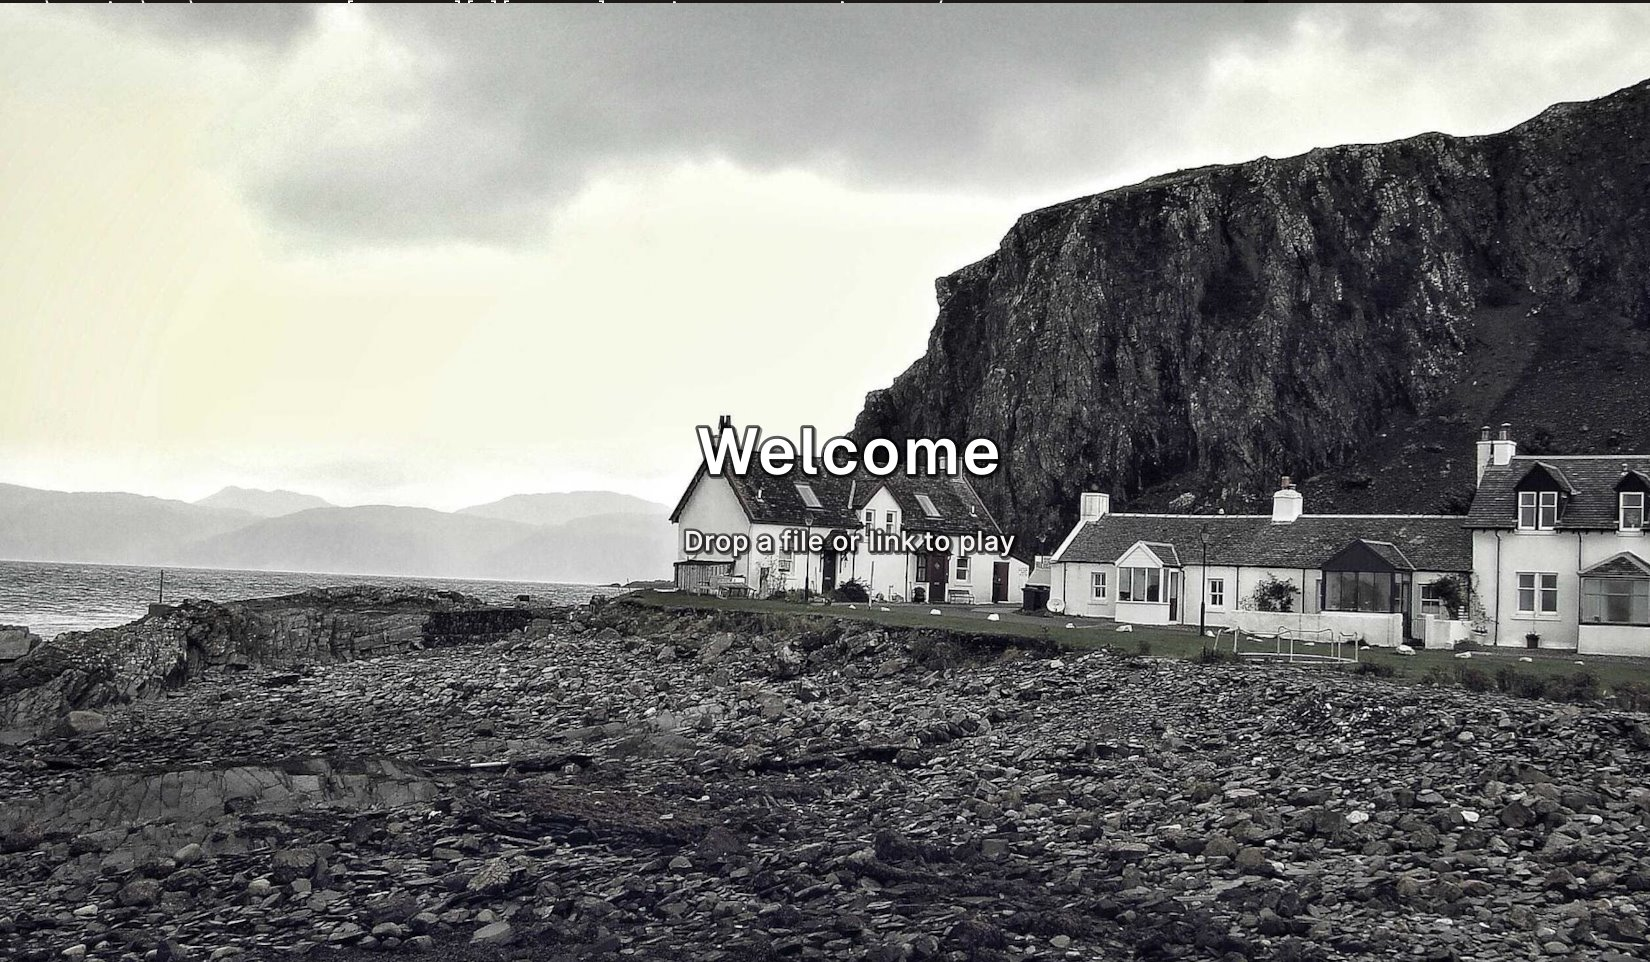
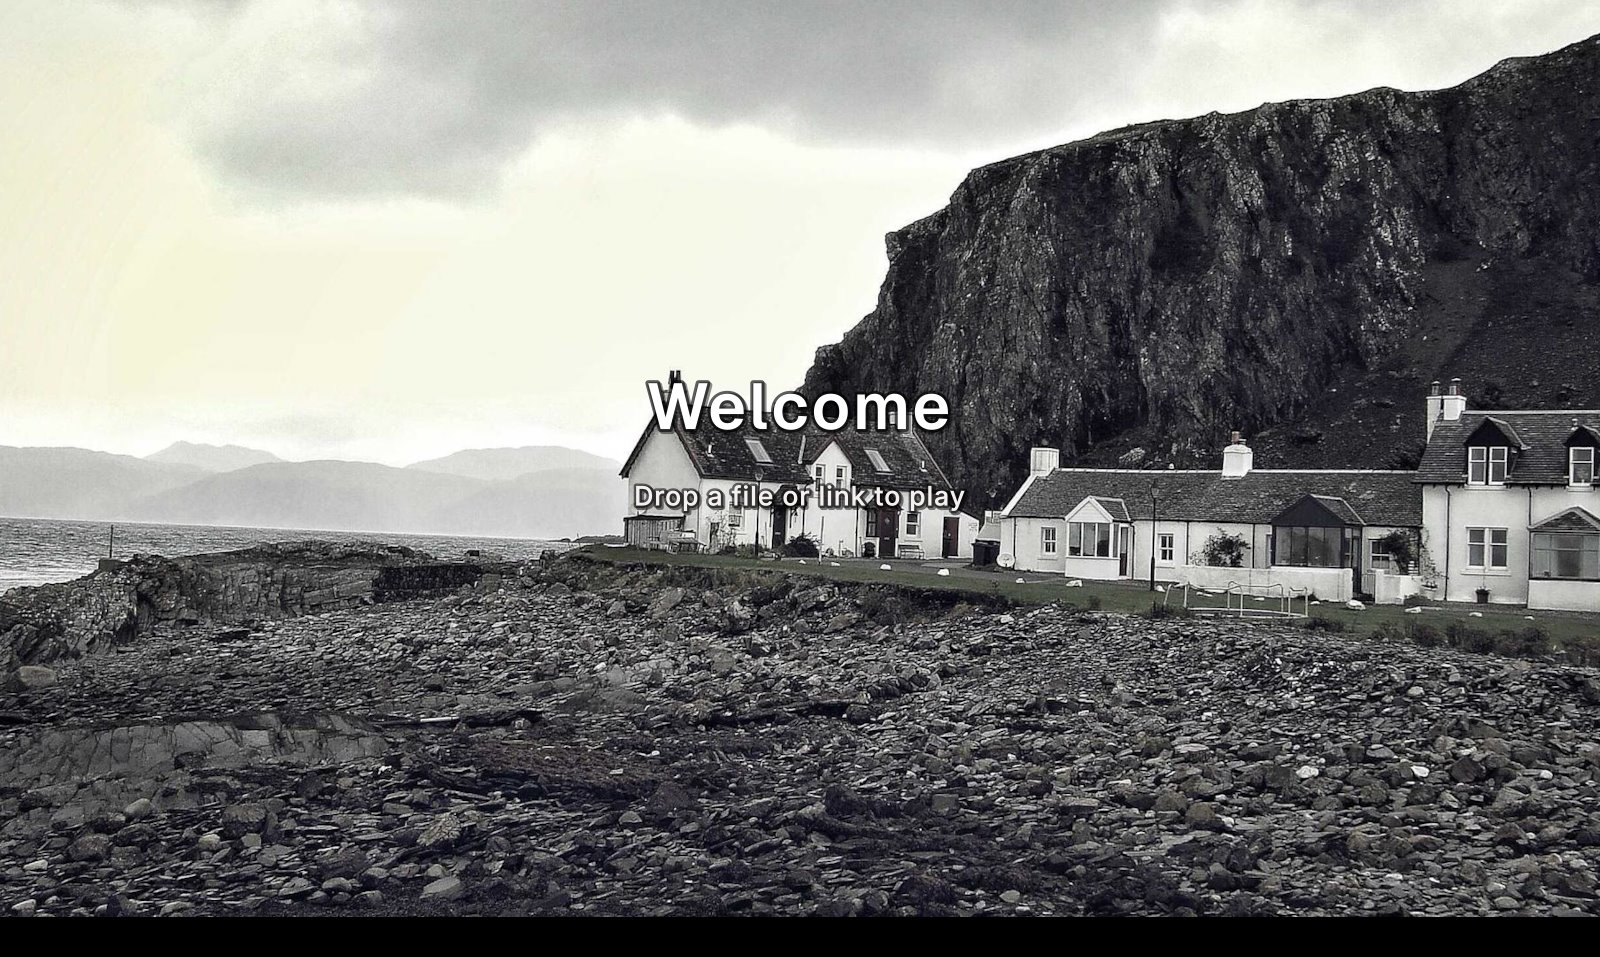
The last three things the review found
The running head lit a link at the top of the page that the reader was not on: the scroll spy now tracks the set of sections rather than the last one to fire, so it falls back to nothing above the first section. The measured claim in the margin band was breaking over two lines at its old size. And the hero plate still carried a sliver of the player's status bar at the top.

diff --git a/site/assets/js/main.js b/site/assets/js/main.js
@@ -530,14 +530,27 @@
     });
     if (!sections.length) return;
 
+    /* The sections are watched as a set, so that the running head falls
+       back to nothing when the reader is above the first one rather than
+       keeping whatever was last lit. */
+    var visible = {};
+
+    function paint() {
+      var current = null;
+      sections.forEach(function (section) {
+        if (visible[section.id]) current = section.id;
+      });
+      links.forEach(function (link) {
+        link.classList.toggle('is-active', link.getAttribute('data-spy') === current);
+      });
+    }
+
     var observer = new global.IntersectionObserver(
       function (entries) {
         entries.forEach(function (entry) {
-          if (!entry.isIntersecting) return;
-          links.forEach(function (link) {
-            link.classList.toggle('is-active', link.getAttribute('data-spy') === entry.target.id);
-          });
+          visible[entry.target.id] = entry.isIntersecting;
         });
+        paint();
       },
       { rootMargin: '-45% 0px -50% 0px', threshold: 0 }
     );

diff --git a/site/index.html b/site/index.html
@@ -149,7 +149,7 @@
       <!-- the picture -->
       <div class="lg:col-span-6">
         <figure class="plate hero-enter" style="animation-delay:.37s">
-          <img src="assets/images/hero-idle.jpg" alt="The mpv idle screen, with a fetched photograph behind the prompt and the key hints" width="1650" height="962" loading="eager" decoding="async">
+          <img src="assets/images/hero-idle.jpg" alt="The mpv idle screen, with a fetched photograph behind the prompt and the key hints" width="1600" height="957" loading="eager" decoding="async">
           <figcaption class="plate-cap"><b>PLATE 01</b> <span>the idle screen &mdash; a fetched photograph behind the prompt</span></figcaption>
         </figure>
       </div>

diff --git a/site/partials/01-hero.html b/site/partials/01-hero.html
@@ -24,7 +24,7 @@
       <!-- the picture -->
       <div class="lg:col-span-6">
         <figure class="plate hero-enter" style="animation-delay:.37s">
-          <img src="assets/images/hero-idle.jpg" alt="The mpv idle screen, with a fetched photograph behind the prompt and the key hints" width="1650" height="962" loading="eager" decoding="async">
+          <img src="assets/images/hero-idle.jpg" alt="The mpv idle screen, with a fetched photograph behind the prompt and the key hints" width="1600" height="957" loading="eager" decoding="async">
           <figcaption class="plate-cap"><b>PLATE 01</b> <span>the idle screen &mdash; a fetched photograph behind the prompt</span></figcaption>
         </figure>
       </div>

diff --git a/site/assets/css/main.css b/site/assets/css/main.css
@@ -219,7 +219,7 @@ body {
   font-family: var(--font-display);
   font-variation-settings: 'opsz' 24;
   font-weight: 400;
-  font-size: 1.15rem;
+  font-size: 1rem;
   line-height: 1.15;
   letter-spacing: -0.01em;
   margin-bottom: 0.2rem;

diff --git a/README.md b/README.md
@@ -15,7 +15,7 @@ A tuned, single-command [mpv](https://mpv.io) configuration. Liquid Glass contro
 
 <p align="center">
   <picture>
-    <img src="site/assets/images/hero-idle.png" alt="The mpv idle screen: a fetched photograph behind the welcome prompt" style="border:1px solid #C3C4BD;border-radius:2px;max-width:100%;height:auto;display:block;margin:0 auto;">
+    <img src="site/assets/images/hero-idle.jpg" alt="The mpv idle screen: a fetched photograph behind the welcome prompt" style="border:1px solid #C3C4BD;border-radius:2px;max-width:100%;height:auto;display:block;margin:0 auto;">
   </picture>
 </p>
 
@@ -181,7 +181,7 @@ Four stills, captured from the reference machine with this configuration install
 
 | | |
 |---|---|
-| <img src="site/assets/images/hero-idle.png" alt="The idle screen: a fetched photograph behind the welcome prompt" style="border:1px solid #C3C4BD;border-radius:2px;max-width:100%;height:auto;display:block;margin:0 auto;"> | <img src="site/assets/images/control-bar.png" alt="The Liquid Glass control bar drawn over a playing frame" style="border:1px solid #C3C4BD;border-radius:2px;max-width:100%;height:auto;display:block;margin:0 auto;"> |
+| <img src="site/assets/images/hero-idle.jpg" alt="The idle screen: a fetched photograph behind the welcome prompt" style="border:1px solid #C3C4BD;border-radius:2px;max-width:100%;height:auto;display:block;margin:0 auto;"> | <img src="site/assets/images/control-bar.png" alt="The Liquid Glass control bar drawn over an SMPTE test signal" style="border:1px solid #C3C4BD;border-radius:2px;max-width:100%;height:auto;display:block;margin:0 auto;"> |
 | **PLATE 01** — the idle screen: a fetched photograph behind the "Welcome / Drop a file or link to play" prompt. | **PLATE 02** — the Liquid Glass control bar, drawn over a playing frame. |
 | <img src="site/assets/images/format-picker.png" alt="The YouTube format picker" style="border:1px solid #C3C4BD;border-radius:2px;max-width:100%;height:auto;display:block;margin:0 auto;"> | <img src="site/assets/images/load-media-menu.png" alt="The load-media browser: a search field and a result list" style="border:1px solid #C3C4BD;border-radius:2px;max-width:100%;height:auto;display:block;margin:0 auto;"> |
 | **PLATE 03** — the format picker: the formats the server actually offers. | **PLATE 04** — the load-media browser: a search field and a result list, set in the player's own type scale. |
